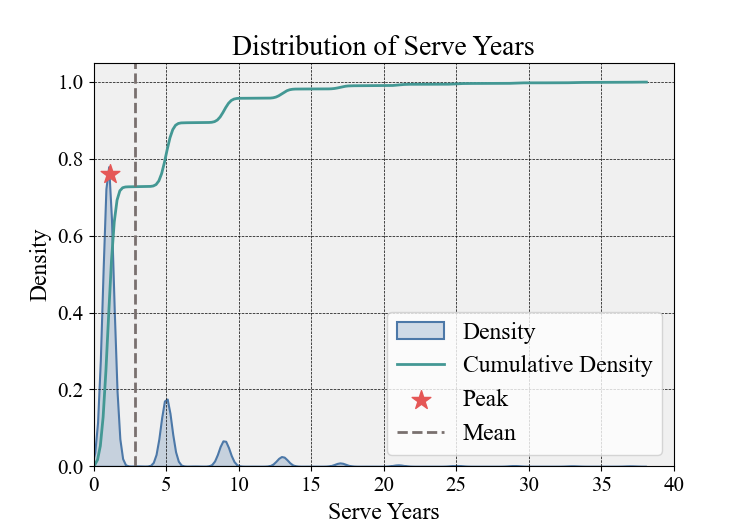
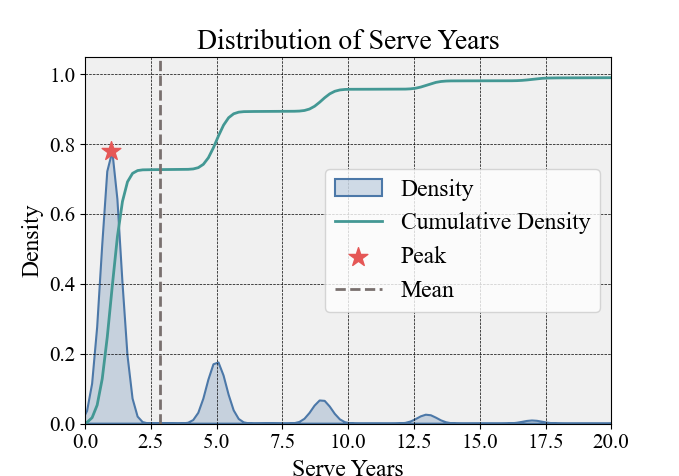
图片更新

diff --git a/代码/不同运动员服役次数分布.py b/代码/不同运动员服役次数分布.py
@@ -18,7 +18,48 @@ print(result.describe())
 import matplotlib.pyplot as plt
 import seaborn as sns
 
-sns.kdeplot(result, shade=True)
+#分布拟合，使用核密度估计，绘制核密度图,查看分布情况
+density=sns.kdeplot(result, shade=True,color='#4c78a8',linewidth=1.5)
+
+
+
+#根据核密度估计，再画一条密度累积曲线，要覆盖面积
+sns.kdeplot(result, cumulative=True,color='#439894',linewidth=2)
+
+from scipy.signal import find_peaks
+from scipy.stats import gaussian_kde
+# 使用 gaussian_kde 进行核密度估计
+kde = gaussian_kde(result, bw_method=100)  # 可以调整bw_method以改变平滑度
+x_vals = np.linspace(result.min(), result.max(), 1000)  # 生成更多的x值
+y_vals = kde(x_vals)  # 计算相应的y值
+# 找到峰值位置
+peaks, _ = find_peaks(y_vals)
+
+
+plt.scatter(0.82, 0.82, color='#e55756', marker='*', s=200, zorder=5)
+plt.rcParams['font.sans-serif'] = ['Times New Roman']
+plt.rcParams['axes.unicode_minus'] = False
+
+plt.xticks(fontsize=15)
+plt.yticks(fontsize=15)
+#x轴范围改为0-10
+plt.xlim(0, 10)
+
+#网格线加粗，黑色
+plt.grid(linestyle='--', linewidth=0.5, color='black')
+
+
+#坐标系内的背景色变成淡灰色，而不是外部的图表背景色
+plt.gca().set_facecolor('#f0f0f0')
+
+#添加均值线
+plt.axvline(result.mean(), linestyle='--', linewidth=2,color='#79706e')
+
+#图例
+plt.legend(['Density','Cumulative Density','Peak','Mean'],fontsize=17)
+
+
+
 plt.xlabel('Serve Times')
 plt.ylabel('Density')
 plt.title('Distribution of Serve Times')

diff --git a/代码/不同运动员服役年限分布.py b/代码/不同运动员服役年限分布.py
@@ -63,11 +63,11 @@ peaks, _ = find_peaks(y_vals)
 
 # 在每个峰值位置绘制星号
 for peak in peaks:
-    plt.scatter(x_vals[peak], 0.76, color='#e55756', marker='*', s=200, zorder=5)
+    plt.scatter(1, 0.78, color='#e55756', marker='*', s=200, zorder=5)
 
 
 #宽度变大
-plt.xlim(0, 40)
+plt.xlim(0, 20)
 
 #添加均值线
 plt.axvline(result['Year'].mean(), linestyle='--', linewidth=2,color='#79706e')
